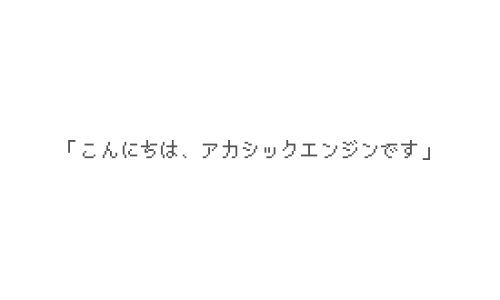
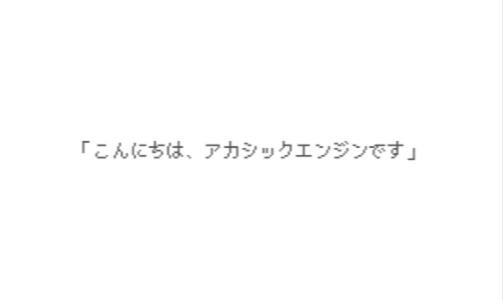
udpate akashic-web-page

Changed region(s): [[0.12, 0.45, 0.87, 0.54]]

diff --git a/tutorial/v2/bitmap-font.html b/tutorial/v2/bitmap-font.html
@@ -196,10 +196,10 @@
 </ul>
 <p>ここでは例として、(a) に上記 PixelMplus の PixelMplus10-Regular.ttf を、 (b) に次の内容の chars.txt を使います。</p>
 <pre><code>あいうえおかきくけこさしすせそたちつてとなにぬねのはひふへほまみむめもやゆよわをんがぎぐげござじずぜぞだぢづでどばびぶべぼぱぴぷぺぽぁぃぅぇぉゃゅょっーアイウエオカキクケコサシスセソタチツテトナニヌネノハヒフヘホマミムメモヤユヨラリルレロワヲンガギグゲゴザジズゼゾダヂヅデドバビブベボパピプペポァィゥェォャュョッー１２３４５６７８９０！”＃＄％＆’（）＝｜＠「」『』｀＋＊；：、。，．＜＞・？＿</code></pre><p>これらを置いたディレクトリで次のコマンドを実行すると、同じディレクトリに画像 font.png と、グリフ情報 font_glyphs.json が生成されます。(上記の画像はこの font.png です)</p>
-<pre><code class="language-sh">bmpfont-generator ./PixelMplus10-Regular.ttf ./font.png -f chars.txt -H 20 -F &#39;#555555&#39; -w 22</code></pre>
+<pre><code class="language-sh">bmpfont-generator ./PixelMplus10-Regular.ttf ./font.png -f chars.txt -H 20 -F &#39;#555555&#39;</code></pre>
 <p>コマンド中のファイル名部分は、用意したファイルに合わせて変更してください。</p>
 <p>なおここで <code>-H</code> は文字のサイズ (ピクセル単位) を、 <code>-F</code> は文字色 (<code>g.FilledRect</code> や CSS の色と同じ形式) を指定するオプションです。(すなわち高さ 20 ピクセル、色が暗めのグレー (#555555) を指定しています)</p>
-<p><code>-w</code> は文字の幅 (ピクセル単位) を強制的に固定するもので、通常は必要ありません。このフォントと現在の bmpfont-generaotr の機能上、 <a href="/guide/asset-recommended-spec.html">隣の文字が滲んでしまう</a> のを避けるために指定しています。その他 bmpfont-generator のオプションの詳細は、<a href="/guide/bmpfont-generator.html">bmpfont-generator の仕様</a> を参照してください。</p>
+<p>その他 bmpfont-generator のオプションの詳細は、<a href="/guide/bmpfont-generator.html">bmpfont-generator の仕様</a> を参照してください。</p>
 <blockquote>
 <p>bmpfont-generator の利用にあたっては、 <strong>フォントのライセンスに注意してください</strong> 。</p>
 <p>特に商用 (有償) のフォントでは、ライセンスによっては 「フォントの代替として機能するようなもの」を作成しての利用が許諾されていない場合があります。

diff --git a/guide/bmpfont-generator.html b/guide/bmpfont-generator.html
@@ -247,6 +247,13 @@
 <td align="center"></td>
 <td align="center"></td>
 </tr>
+<tr>
+<td align="center"><code>--margin</code></td>
+<td align="center"></td>
+<td align="center">文字間の余白(px)</td>
+<td align="center"></td>
+<td align="center">1</td>
+</tr>
 </tbody></table>
 <p><code>fillstyle</code> は CSS の色 (color プロパティに指定できる値)を指定することができます。
 <code>strokestyle</code> は <code>fillstyle</code> と同様に CSS の色を指定することが出来ます。</p>
